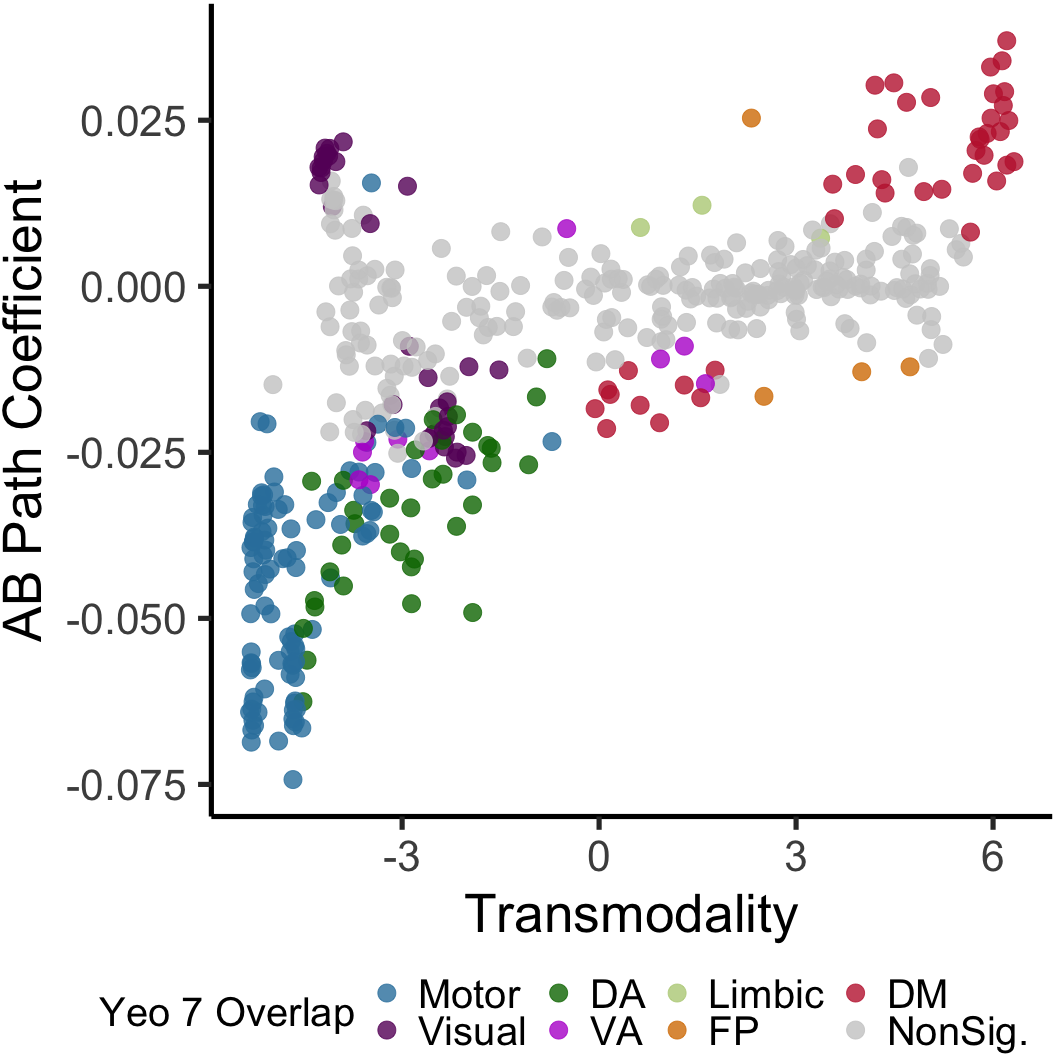
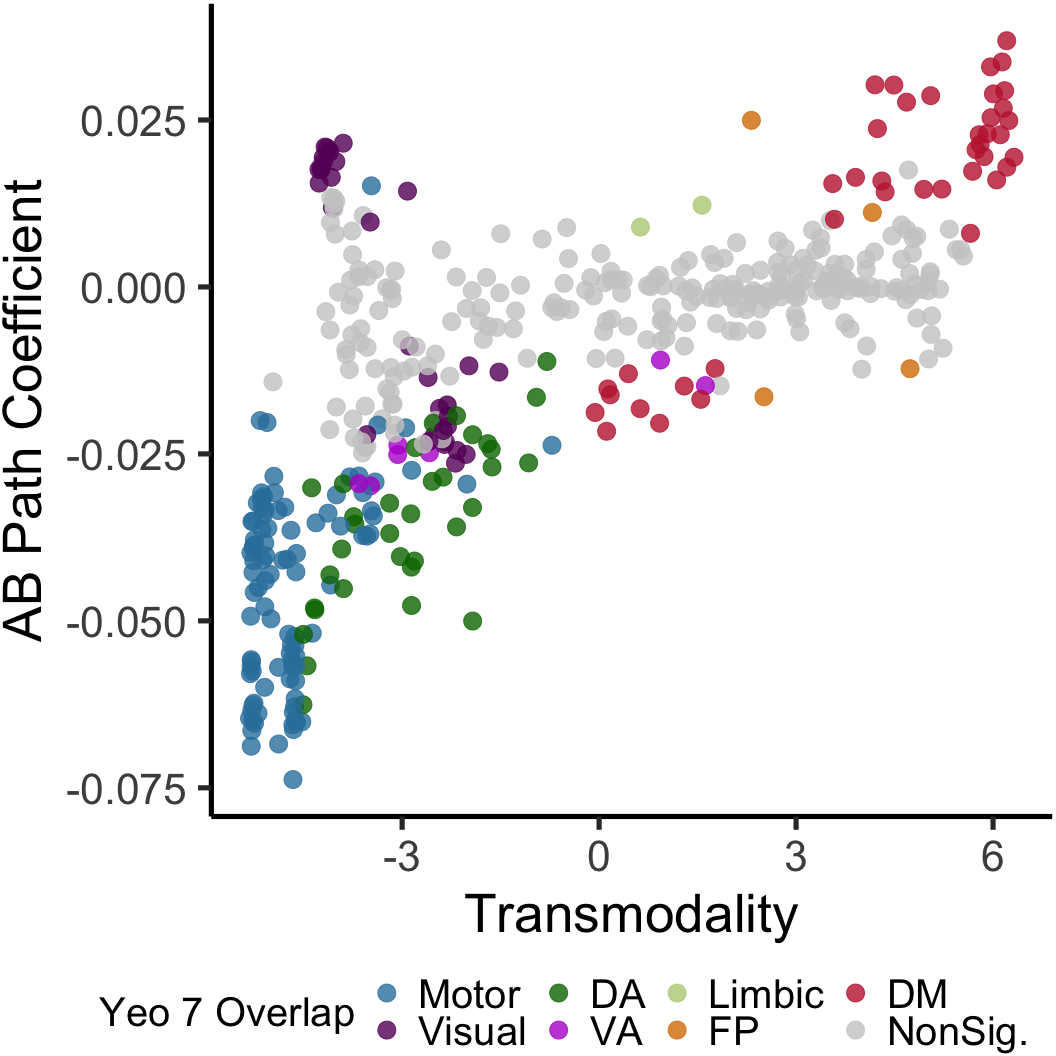
nonSig denoted in mediation

diff --git a/scripts/analyses/Network-level-Mediation.md b/scripts/analyses/Network-level-Mediation.md
@@ -1,11 +1,9 @@
----
-title: "Network-level-EF"
-author: "Adam"
-date: "1/19/2021"
-output: github_document
----
+Network-level-EF
+================
+Adam
+1/19/2021
 
-```{r, message=FALSE}
+``` r
 #libraries
 
 
@@ -22,7 +20,7 @@ library(ppcor)
 library(viridis)
 ```
 
-```{r}
+``` r
 # load 'erry thang
 
 
@@ -55,6 +53,20 @@ community_vec<-seq(2,30)
 
 # big load - output of fc_to_csv.m (all coupling/FC data, pre-organized)
 fc<-vroom('/cbica/projects/pinesParcels/results/aggregated_data/fc/master_fcfeats_rounded.csv')
+```
+
+    ## New names:
+    ## * `` -> ...1
+
+    ## Rows: 695
+    ## Columns: 16,360
+    ## Delimiter: ","
+    ## dbl [16360]: ...1, bblid, ind_globseg_scale2, ind_globseg_scale3, ind_globseg_scale4, ind_globse...
+    ## 
+    ## Use `spec()` to retrieve the guessed column specification
+    ## Pass a specification to the `col_types` argument to quiet this message
+
+``` r
 # First row gotta go
 fc<-fc[-c(1)]
 # isolate shams
@@ -101,7 +113,7 @@ for (i in 1:length(tmclass)){
 }
 ```
 
-```{r}
+``` r
 # parse fields of interest 
 
 
@@ -136,7 +148,7 @@ individ_scalebywin_df<-masterdf[,indiv_wincols_ind]
 wincolnames<-colnames(individ_scalebywin_df)
 ```
 
-```{r}
+``` r
 # get average between-network connectivity of each network (average over each network's edges at each scale)
 
 
@@ -259,11 +271,12 @@ for (i in 1:2){
   }
   
 }
-
-
 ```
 
-```{r}
+    ## [1] "unimodal"
+    ## [1] "transmodal"
+
+``` r
 # calculate EF effects
 # set covariates formula for iterating over in the loop
 lm_xM_covariates="~Age+Sex+Motion"
@@ -321,7 +334,7 @@ NL_sigVec[corrected<0.05]<-TRUE
 bwdf<-data.frame(tmvec,scalesvec,domnetvec,domnetvec17,netpropvec,AB_Est)
 ```
 
-```{r}
+``` r
 # Mediation * Transmodality - final setup
 # Map nonsig to grey
 bwdf$domnetvecSig<-'NonSig'
@@ -332,12 +345,13 @@ bwdf$domnetvecSig<-as.factor(bwdf$domnetvecSig)
 bwdf$domnetvecSig<-factor(bwdf$domnetvecSig,levels=c("Motor","Visual","DA","VA","Limbic","FP","DM","NonSig"),labels=c("Motor","Visual","DA","VA","Limbic","FP","DM","NonSig."))
 ```
 
-```{r, fig.width=11,fig.height=11}
+``` r
 ggplot(bwdf,aes(tmvec,AB_Est)) + geom_point(size=6,alpha=.8,aes(color=domnetvecSig))+ scale_color_manual(values=c('#3281ab','#670068','#007500','#b61ad0','#b8cf86','#d77d00','#c1253c','gray80')) + xlab("Transmodality") + ylab('AB Path Coefficient') +theme_classic(base_size = 40) +guides(color=guide_legend(title="Yeo 7 Overlap"))+theme(plot.margin=margin(b=3,t=.1,l=.1,r=.1, unit='cm'), legend.position=c(.42,-.24),legend.direction = "horizontal",legend.title=element_text(size=30),legend.text=element_text(size=30))
 ```
 
+![](Network-level-Mediation_files/figure-markdown_github/unnamed-chunk-7-1.png)
 
-```{r}
+``` r
 # figure 7 stuff - Mediation Effect * Scale * Transmodality
 
 # convert yeo17 membership to vector capturing only sig. yeo17 networks, graying out nonsig.
@@ -349,8 +363,12 @@ bwdf$domnetvec17<-domnetvec17
 bwdf$Med_domnetSig17<-Med_domnetSig17
 ```
 
-```{r, fig.width=9,fig.height=9}
+``` r
 ggplot(bwdf,aes(scalesvec,AB_Est)) + xlab("# of Networks") + ylab('AB Path Coefficient') +theme_classic(base_size = 28) +guides(alpha=FALSE,color=guide_legend(title="Yeo 17 Overlap"))+theme(legend.position=c(.46,-.15),legend.direction = "horizontal",legend.text = element_text(size=20),legend.title = element_text(size=24))+
 geom_smooth(data=subset(bwdf,domnetvec17=='Somatomotor A'),method='gam',formula = y~s(x,k=3),aes(color=domnetvec17),fill="gray82")+geom_smooth(data=subset(bwdf,domnetvec17=='DM_B'),method='gam',formula = y~s(x,k=3),aes(color=domnetvec17),fill="gray82")+scale_color_manual(values=c('#bc0943','#4183a8'))+geom_point(data=subset(bwdf,domnetvec17=='Somatomotor A'),aes(color=Med_domnetSig17),size=6)+geom_point(data=subset(bwdf,domnetvec17=='DM_B'),aes(color=Med_domnetSig17),size=6)+scale_color_manual(values=c('#bc0943','#4183a8','gray70'),labels=c('Default Mode B','Somatomotor A','NonSig.'))+scale_x_continuous(breaks=c(4,10,16,22,28))+theme(plot.margin=unit(c(.9,.6,2,.6),"cm"))
-
 ```
+
+    ## Scale for 'colour' is already present. Adding another scale for 'colour',
+    ## which will replace the existing scale.
+
+![](Network-level-Mediation_files/figure-markdown_github/unnamed-chunk-9-1.png)
